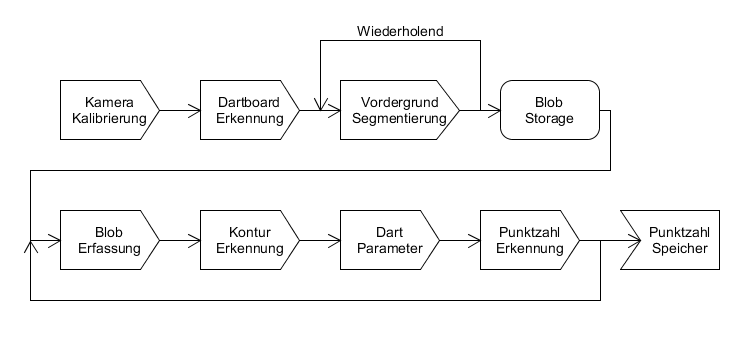
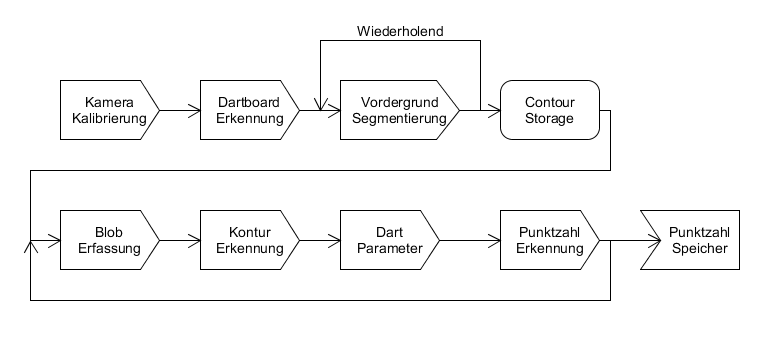
More Pipeline description added

diff --git a/thesis/sections/40_coding.tex b/thesis/sections/40_coding.tex
@@ -2,14 +2,36 @@
 
 \chapter{Umsetzung}
 \label{chap:coding}
-In diesem Kapitel wird auf den Aufbau der Implementierung eingegangen. Anfänglich werden einmalige Vorbereitungsschritte aufgeschlüsselt, hierzu gehört zu einem großen Teil die Kalibrierung der genutzten Kamera in \prettyref{sec:camera} und die Bestimmung der Charakteristika dieser. 
+In diesem Kapitel wird auf den Aufbau der Implementierung eingegangen. Zunächst ein allgemeiner Überblick über das Vorgehen. Dies wird im folgenden als Pipeline bezeichnet und wird im \prettyref{sec:pipeline} allgemein erkläutert.
+
+Nachdem ein genereller Überblick über die einzelnen Bestandteile gegeben wurde wird auf die einzelnen Schritte der Pipeline genauer eingegangen.
+Anfänglich werden einmalige Vorbereitungsschritte aufgeschlüsselt, hierzu gehört zu einem großen Teil die Kalibrierung der genutzten Kamera in \prettyref{sec:camera} und die Bestimmung der Charakteristika dieser. 
 
 Darauf folgt in \prettyref{sec:board} die Kalibrierung und die Erkennung der Felder des Dartboardes. Es werden verschiedene getestete Ansätze erörtert und ihre Vor- und Nachteile dargestellt.
 
-Anschließend wird die Pipeline im \prettyref{sec:pipeline} allgemein erläutert, um einen Überblick auf die sich wiederholenden Schritte zur Darts Erkennung zu gewähren.
-
 Des Weiteren werden die einzelnen Abschnitte der Pipeline näher beleuchtet und auf die Implementierung und das Vorgehen eingegangen. Dies umfasst von der Segmentierung der Dinge, die nicht zum Dartboard gehören in \prettyref{sec:segmentation}. Bis hin zur konkreten Bestimmung der erzielten Punktzahl in \prettyref{sec:score}. 
 \todo{Umsetzung einteilen und implementieren}
+       
+\section{Pipeline Überblick}
+\label{sec:pipeline}
+\begin{itemize}
+\item Einmalige Schritte erläutern
+\item Unterteilung der Einzelnen Threads
+\item Blob Storage
+\item zweiter Thread Pfeil aus Blob
+\item Punktzahl Speicher
+\end{itemize}
+Ein genereller Überblick über die Pipeline wird in Abbildung \prettyref{Fig:pipeline} gegeben. Zu erkennen ist, dass es zwei sich wiederholende Teile gibt. Als Verbindungsglied zwischen diesen steht der Contour Storage. Dieser speichert Informationen zu jedem aufgenommenen Bild. Auf den Storage, seine Funktionsweise und die weitere Verarbeitung wird in \prettyref{sec:foreground} eingegangen. 
+
+Am Anfang der Pipeline steht die generelle Kalibrierung der Kamera, diese gehört nur bedingt zur Pipeline hinzu. Die Kamera Kalibrierung muss für eine spezifische Kamera nur ein einziges mal ausgeführt werden, abgesehen von dem Fall, dass die Kamera eine Fokussierung besitzt. In diesem Fall muss dieser Schritt nach jedem Fokus Vorgang erneut ausgeführt werden. Auf die Kalibrierung der Kamera wird im einzelnen in \prettyref{sec:camera} eingegangen.
+
+Ist die generelle Kalibrierung abgeschlossen, können die hieraus gewonnenen Informationen genutzt werden, um das Dartboard und dessen Felder zu segmentieren und unterscheiden zu können. Das Resultat dieser Kalibrierung ist eine Funktion, die eine Abbildung von einem Pixel zu einer spezifischen Punktzahl auf dem Dartboard darstellt. In \prettyref{sec:board} wird genauer beschrieben, welche Ansätze zu diesem Zweck verfolgt wurden und wie die letztendliche Umsetzung vorgenommen wurde.
+\begin{figure}
+\includegraphics[width=\textwidth]{media/pipeline.png}\\
+\caption{\textbf{Übersicht der einzelnen Schritte}}
+\label{Fig:pipeline}
+\end{figure}
+
 \section{Kamera Kalibrierung}
 \label{sec:camera}
 Um genauere und bessere Daten aus der Kamera ziehen zu können müssen vorher einige Parameter bestimmt werden. Im \prettyref{sec:basics} wurde bereits das Kamera Modell erläutert. 
@@ -27,14 +49,7 @@ Stage 1 Board finden:
         Dartboard Koordinaten bestimmen im Verhältnis zur Kamera.
        Eigentliche Kalibrierung via klicken,
        wie viele Punkte sind nötig
-       
-\section{Pipeline Überblick}
-\label{sec:pipeline}
-\begin{figure}
-\includegraphics[width=\textwidth]{media/pipeline.png}\\
-\caption{\textbf{Übersicht der einzelnen Schritte}}
-\label{Fig:pipeline}
-\end{figure}
+
 
 \section{Segmentierung des Vordergrundes}
 \label{sec:segmentation}

diff --git a/thesis/sections/20_fundamentals.tex b/thesis/sections/20_fundamentals.tex
@@ -140,7 +140,7 @@ wobei $A = \begin{bmatrix} f_x & \gamma & c_x \\
 Da es viele Basisprobleme und Anwendungen in der Computer Vision gibt wurde eine open source Library implementiert. Die geläufigste ist die Open Source Computer Vision Library, kurz OpenCV, sie wurde unter BSD Lizenz veröffentlicht, sodass sie nahezu ohne Einschränkungen genutzt werden kann. Die Bibliothek ist größtenteils in C\# und C++  geschrieben und wurd anfänglich von Intel entwickelt wurde. \textbf{\autocite[512--]{Medioni:2004:ETC:993884} }Einige Gründe hierfür waren der Wunsch der Forschungsgemeinschaft zu ermöglichen neue Anwendungen implementieren zu können ohne sich um die grundlegende Implementierung kümmern zu müssen. So bietet OpenCV auch Möglichkeiten um eine Kamera mit einfachen Mitteln kalibrieren zu können. Auf das Vorgehen dabei wird in \prettyref{sec:camera} eingegangen.
 Die Bibliothek ist auf allen Gängigen Betriebssystemen verfügbar, so gibt eine Windows, Linux/Mac Version. Zudem gibt es für mobile Applikationen noch eine Unterstützung von Android.
 
-Für OpenCV sind Interfaces zu anderen Sprachen implementiert worden. So ist es möglich OpenCV in Java und Python zu nutzen. \autocite{OpenCV2016} Insgesamt werden rund 2500 optimierte Algorithmen angeboten, hierzu zählen Algorithmen im Bereich Maschine Learning, 3D Objekt Erkennung, Gesichtserkennung und vielem mehr. Zudem befinden sich Interfaces zu nVIDIAS CUDA, eine Bibliothek zur Parallelen Berechnung \autocite{cuda2017}, und zu OpenCL aktuell in der aktiven Entwicklung.
+Für OpenCV sind Interfaces zu anderen Sprachen implementiert worden. So ist es möglich OpenCV in Java und Python zu nutzen. \autocite{OpenCV2016} Insgesamt werden rund 2500 optimierte Algorithmen angeboten, hierzu zählen Algorithmen im Bereich Maschine Learning, 3D Objekt Erkennung, Gesichtserkennung und vielem mehr. Zudem befinden sich Interfaces zu Nvidias CUDA, eine Bibliothek zur Parallelen Berechnung \autocite{cuda2017}, und zu OpenCL aktuell in der aktiven Entwicklung.
 \todo{opencv Benutzung erklären}
 
 
